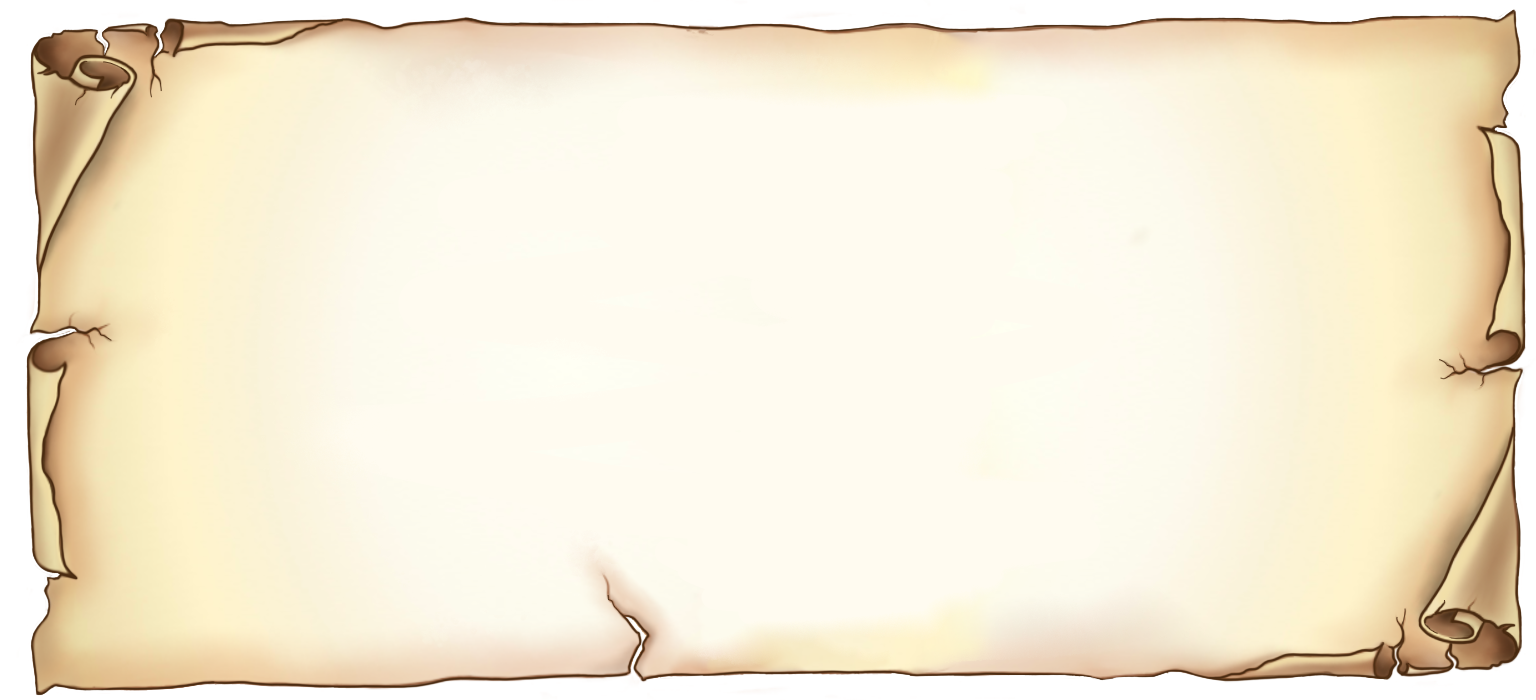
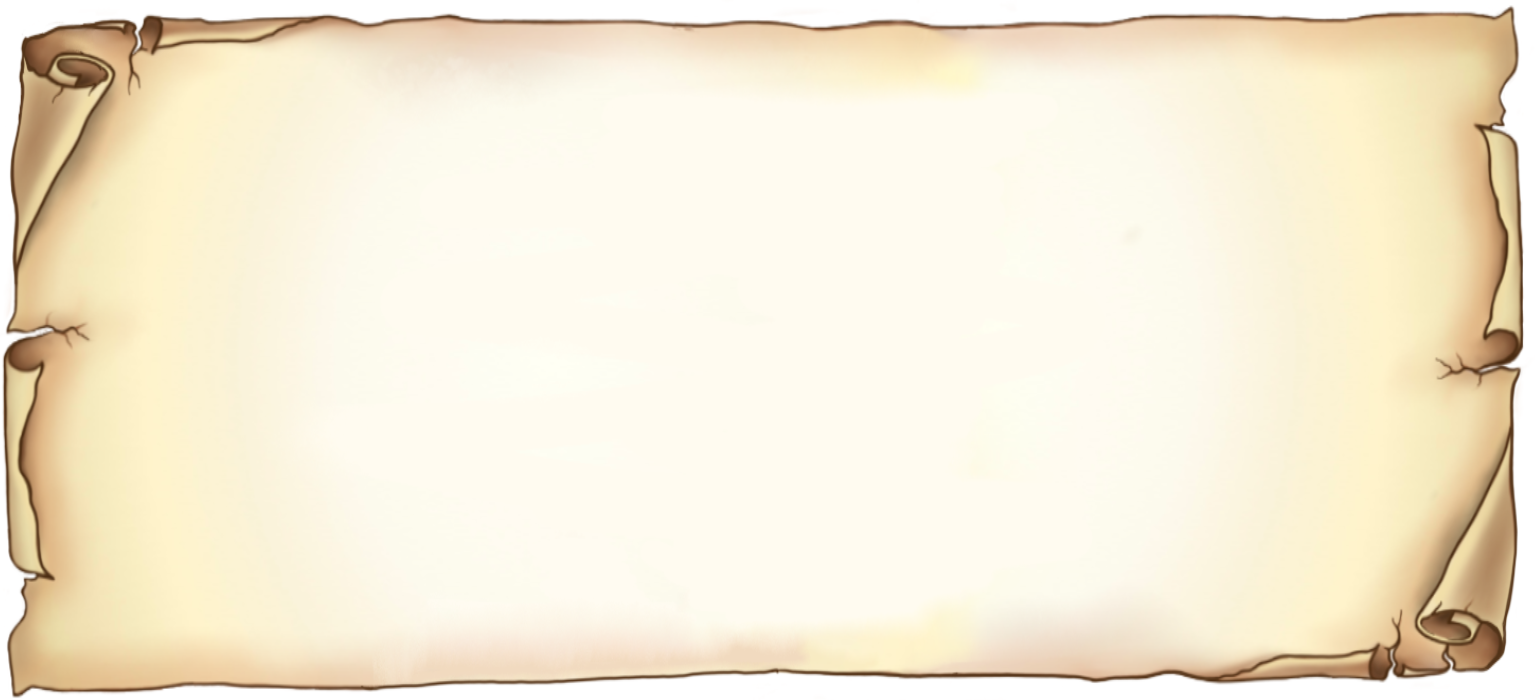
Update scroll on auth forms and alert message for sign up

Changed region(s): [[0.0, 0.0, 1.0, 1.0]]

diff --git a/src/client/AuthForms/RegisterForm.jsx b/src/client/AuthForms/RegisterForm.jsx
@@ -4,7 +4,8 @@ import { motion } from "framer-motion";
 
 import Alert from "@mui/material/Alert"
 import Button from "@mui/material/Button"
-import { Box } from "@mui/material"
+import Box from "@mui/material/Box"
+import Card from "@mui/material/Card"
 import Grid from "@mui/material/Grid"
 import TextField from "@mui/material/TextField";
 import Typography from "@mui/material/Typography";
@@ -19,6 +20,7 @@ import { useRegisterMutation } from "../../redux/api";
 import Scroll from "./AuthScroll.png"
 
 const RegisterForm = () => {
+    const [alert, setAlert] = useState(true);
     const [name, setName] = useState("");
     const [username, setUsername] = useState("");
     const [password, setPassword] = useState("");
@@ -49,9 +51,9 @@ const RegisterForm = () => {
                 return
             }
             event.preventDefault();
-            const result =  await register({ username, name, email, password, secondPassword });
-                console.log("Success!")
-                console.log(result)
+            const result = await register({ username, name, email, password, secondPassword });
+            console.log("Success!")
+            console.log(result)
             navigate("/account")
         } catch (error) {
             console.error(error)
@@ -63,163 +65,207 @@ const RegisterForm = () => {
             initial={{ opacity: 0 }}
             animate={{ opacity: 1 }}
             transition={{ duration: 0.5, ease: "easeIn" }}>
-            <Box
-                sx={{ mx: "5%", mb: 10 }}
-                style={{
-                    backgroundImage: `url(${Scroll})`,
-                    backgroundSize: "contain",
-                    backgroundRepeat: "no-repeat",
-                }}>
-                <Grid container sx={{ mt: 10 }}>
-                    <Grid item xs={2}>
-                    </Grid>
-                    <Grid item xs={8}>
-                        <Box sx={{ p: 5 }}>
-                            <Typography variant="h4" sx={{ color: "#445D48", textAlign: "center", p: 1 }}>
-                                Sign Up:
-                            </Typography>
-                            <form onSubmit={handleSubmit}>
-                                <Stack direction="column">
-                                    <TextField
-                                        label="Enter Your Name"
-                                        value={name}
-                                        onChange={(event) => setName(event.target.value)}
-                                        size="small"
-                                        variant="filled"
-                                        sx={{ m: 1 }}
-                                    />
-                                    <TextField
-                                        label="Enter Username"
-                                        value={username}
-                                        onChange={(event) => setUsername(event.target.value)}
-                                        size="small"
-                                        variant="filled"
-                                        sx={{ m: 1 }}
-                                    />
-                                    <TextField
-                                        label="Enter E-mail"
-                                        value={email}
-                                        onChange={(event) => setEmail(event.target.value)}
-                                        size="small"
-                                        variant="filled"
-                                        sx={{ m: 1 }}
-                                    />
-                                    <TextField
-                                        label="Enter Password"
-                                        value={password}
-                                        type="password"
-                                        onChange={(event) => setPassword(event.target.value)}
-                                        size="small"
-                                        variant="filled"
-                                        sx={{ m: 1 }}
-                                        helperText={
-                                            password && password.length < 8
-                                                ? <Alert severity="error"> Your password needs to be at least 8 characters long </Alert>
-                                                : password.length > 16 ? <Alert severity="error"> Your password cannot be more than 16 characters long </Alert>
-                                                    : null
-                                        }
-                                    />
-                                    <TextField
-                                        label="Re-enter Password"
-                                        value={secondPassword}
-                                        type="password"
-                                        onChange={(event) => setSecondPassword(event.target.value)}
-                                        size="small"
-                                        variant="filled"
-                                        error={
-                                            !!(password && secondPassword !== secondPassword)
-                                        }
-                                        sx={{ m: 1 }}
-                                        helperText={
-                                            password && secondPassword && password !== secondPassword ?
-                                                <Alert severity="error"> Passwords do not match </Alert> : null
-                                        }
-                                    />
-                                    {isMobile ?
-                                        <div>
-                                            <Typography sx={{ color: "#445D48", textAlign: "center" }}>
-                                                <Button
-                                                    type="submit"
-                                                    variant="contained"
-                                                    color="success"
-                                                    sx={{
-                                                        p: 1,
-                                                        my: 1,
-                                                        fontSize: "20px",
-                                                        color: "white",
-                                                        borderRadius: "10px",
-                                                        backgroundColor: "#65B741",
-                                                        border: 2,
-                                                        borderBottom: 5,
-                                                        borderColor: "#445D48",
-                                                        textTransform: "none"
-                                                    }}>
-                                                    Sign Up
-                                                </Button>
-                                                <Typography sx={{ mt: 2, color: "#445D48", textAlign: "center" }}>
-                                                    Already have an account?
-                                                </Typography>
-                                                <Link to="/login">
-                                                    <Button
-                                                        variant="outlined"
-                                                        sx={{
-                                                            my: 1,
-                                                            width: "100%",
-                                                            fontSize: "20px",
-                                                            color: "white",
-                                                            borderRadius: "10px",
-                                                            backgroundColor: "#65B741",
-                                                            border: 2,
-                                                            borderBottom: 5,
-                                                            borderColor: "#445D48",
-                                                            textTransform: "none"
-                                                        }}>
-                                                        Login to your account
-                                                        <LoginIcon sx={{ color: "#205375" }} />
-                                                    </Button>
-                                                </Link>
-                                            </Typography>
-                                        </div>
-                                        ://is NOT mobile... 
-                                        <div>
-                                            <Typography sx={{ color: "#445D48", textAlign: "center" }}>
-                                                <Button
-                                                    type="submit"
-                                                    variant="contained"
-                                                    color="success"
-                                                    sx={{
-                                                        p: 1,
-                                                        my: 1,
-                                                        fontSize: "20px",
-                                                        color: "white",
-                                                        borderRadius: "10px",
-                                                        backgroundColor: "#65B741",
-                                                        border: 2,
-                                                        borderBottom: 5,
-                                                        borderColor: "#445D48",
-                                                        textTransform: "none"
-                                                    }}>
-                                                    Start Your Cooking Journey
-                                                </Button>
-                                                <Typography sx={{ mt: 2, color: "#445D48", textAlign: "center" }}>
-                                                    Already have an account?
-                                                </Typography>
-                                                <Link to="/login">
-                                                    <Button sx={{ color: "#445D48", textTransform: "none", my: 1 }}>
-                                                        Login to your account
-                                                        <LoginIcon sx={{ ml: 2, color: "#445D48" }} />
-                                                    </Button>
-                                                </Link>
-                                            </Typography>
-                                        </div>}
-                                </Stack>
-                            </form>
-                        </Box>
-                    </Grid>
-                    <Grid item xs={2}>
-                    </Grid>
-                </Grid>
-            </Box>
+            {alert &&
+                <Card sx={{ mt: 20, border: 5, borderColor: "#862B0D", backgroundColor: "#FFF9C9", mx: 40, p: 3 }}>
+                    <Typography 
+                    sx={{ color: "#362706", textAlign: "center" }}
+                        variant="h4">
+                        Thanks for Signing Up!
+                    </Typography>
+                    <Typography 
+                    sx={{ color: "#362706", textAlign: "center" }}
+                    variant="h6">
+                        Before you sign up, we wanted to inform you that as of now, Cooking Conquest is just a demo,
+                        and account data will be erased every 90 days.
+                    </Typography>
+                    <Link to="https://github.com/katc336/Cooking.Conquest">
+                        <Typography sx={{ color: "#362706", textAlign: "center" }}>
+                            Visit Cooking Conquest's GitHub to see progress!
+                        </Typography>
+                    </Link>
+                    <Typography sx={{ textAlign: "center" }}>
+                        <Button onClick={() => setAlert(false)}
+                            variant="contained"
+                            color="success"
+                            sx={{
+                                mt: 5,
+                                fontSize: "20px",
+                                color: "white",
+                                borderRadius: "10px",
+                                backgroundColor: "#65B741",
+                                border: 2,
+                                borderBottom: 5,
+                                borderColor: "#445D48",
+                                textTransform: "none"
+                            }}>
+                            Close and Continue to Sign Up Page
+                        </Button>
+                    </Typography>
+                </Card>
+            }
+            {!alert &&
+                <motion.div
+                    initial={{ opacity: 0 }}
+                    animate={{ opacity: 1 }}
+                    transition={{ duration: 0.5, ease: "easeIn" }}>
+                    <Box
+                        sx={{ mt: 15, mx: "5%", pb: 30 }}
+                        style={{
+                            backgroundImage: `url(${Scroll})`,
+                            backgroundSize: "contain",
+                            backgroundRepeat: "no-repeat",
+                        }}>
+                        <Grid container sx={{ mt: 10 }}>
+                            <Grid item xs={2}>
+                            </Grid>
+                            <Grid item xs={8}>
+                                <Box sx={{ p: 5 }}>
+                                    <Typography variant="h4" sx={{ color: "#445D48", textAlign: "center", p: 1 }}>
+                                        Sign Up:
+                                    </Typography>
+                                    <form onSubmit={handleSubmit}>
+                                        <Stack direction="column">
+                                            <TextField
+                                                label="Enter Your Name"
+                                                value={name}
+                                                onChange={(event) => setName(event.target.value)}
+                                                size="small"
+                                                variant="filled"
+                                                sx={{ m: 1 }}
+                                            />
+                                            <TextField
+                                                label="Enter Username"
+                                                value={username}
+                                                onChange={(event) => setUsername(event.target.value)}
+                                                size="small"
+                                                variant="filled"
+                                                sx={{ m: 1 }}
+                                            />
+                                            <TextField
+                                                label="Enter E-mail"
+                                                value={email}
+                                                onChange={(event) => setEmail(event.target.value)}
+                                                size="small"
+                                                variant="filled"
+                                                sx={{ m: 1 }}
+                                            />
+                                            <TextField
+                                                label="Enter Password"
+                                                value={password}
+                                                type="password"
+                                                onChange={(event) => setPassword(event.target.value)}
+                                                size="small"
+                                                variant="filled"
+                                                sx={{ m: 1 }}
+                                                helperText={
+                                                    password && password.length < 8
+                                                        ? <Alert severity="error"> Your password needs to be at least 8 characters long </Alert>
+                                                        : password.length > 16 ? <Alert severity="error"> Your password cannot be more than 16 characters long </Alert>
+                                                            : null
+                                                }
+                                            />
+                                            <TextField
+                                                label="Re-enter Password"
+                                                value={secondPassword}
+                                                type="password"
+                                                onChange={(event) => setSecondPassword(event.target.value)}
+                                                size="small"
+                                                variant="filled"
+                                                error={
+                                                    !!(password && secondPassword !== secondPassword)
+                                                }
+                                                sx={{ m: 1 }}
+                                                helperText={
+                                                    password && secondPassword && password !== secondPassword ?
+                                                        <Alert severity="error"> Passwords do not match </Alert> : null
+                                                }
+                                            />
+                                            {isMobile ?
+                                                <div>
+                                                    <Typography sx={{ color: "#445D48", textAlign: "center" }}>
+                                                        <Button
+                                                            type="submit"
+                                                            variant="contained"
+                                                            color="success"
+                                                            sx={{
+                                                                p: 1,
+                                                                my: 1,
+                                                                fontSize: "20px",
+                                                                color: "white",
+                                                                borderRadius: "10px",
+                                                                backgroundColor: "#65B741",
+                                                                border: 2,
+                                                                borderBottom: 5,
+                                                                borderColor: "#445D48",
+                                                                textTransform: "none"
+                                                            }}>
+                                                            Sign Up
+                                                        </Button>
+                                                        <Typography sx={{ mt: 2, color: "#445D48", textAlign: "center" }}>
+                                                            Already have an account?
+                                                        </Typography>
+                                                        <Link to="/login">
+                                                            <Button
+                                                                variant="outlined"
+                                                                sx={{
+                                                                    my: 1,
+                                                                    width: "100%",
+                                                                    fontSize: "20px",
+                                                                    color: "white",
+                                                                    borderRadius: "10px",
+                                                                    backgroundColor: "#65B741",
+                                                                    border: 2,
+                                                                    borderBottom: 5,
+                                                                    borderColor: "#445D48",
+                                                                    textTransform: "none"
+                                                                }}>
+                                                                Login to your account
+                                                                <LoginIcon sx={{ color: "#205375" }} />
+                                                            </Button>
+                                                        </Link>
+                                                    </Typography>
+                                                </div>
+                                                ://is NOT mobile... 
+                                                <div>
+                                                    <Typography sx={{ color: "#445D48", textAlign: "center" }}>
+                                                        <Button
+                                                            type="submit"
+                                                            variant="contained"
+                                                            color="success"
+                                                            sx={{
+                                                                p: 1,
+                                                                my: 1,
+                                                                fontSize: "20px",
+                                                                color: "white",
+                                                                borderRadius: "10px",
+                                                                backgroundColor: "#65B741",
+                                                                border: 2,
+                                                                borderBottom: 5,
+                                                                borderColor: "#445D48",
+                                                                textTransform: "none"
+                                                            }}>
+                                                            Start Your Cooking Journey
+                                                        </Button>
+                                                        <Typography sx={{ mt: 2, color: "#445D48", textAlign: "center" }}>
+                                                            Already have an account?
+                                                        </Typography>
+                                                        <Link to="/login">
+                                                            <Button sx={{ color: "#445D48", textTransform: "none", my: 1 }}>
+                                                                Login to your account
+                                                                <LoginIcon sx={{ ml: 2, color: "#445D48" }} />
+                                                            </Button>
+                                                        </Link>
+                                                    </Typography>
+                                                </div>}
+                                        </Stack>
+                                    </form>
+                                </Box>
+                            </Grid>
+                            <Grid item xs={2}>
+                            </Grid>
+                        </Grid>
+                    </Box>
+                </motion.div>}
         </motion.div>
     )
 }
